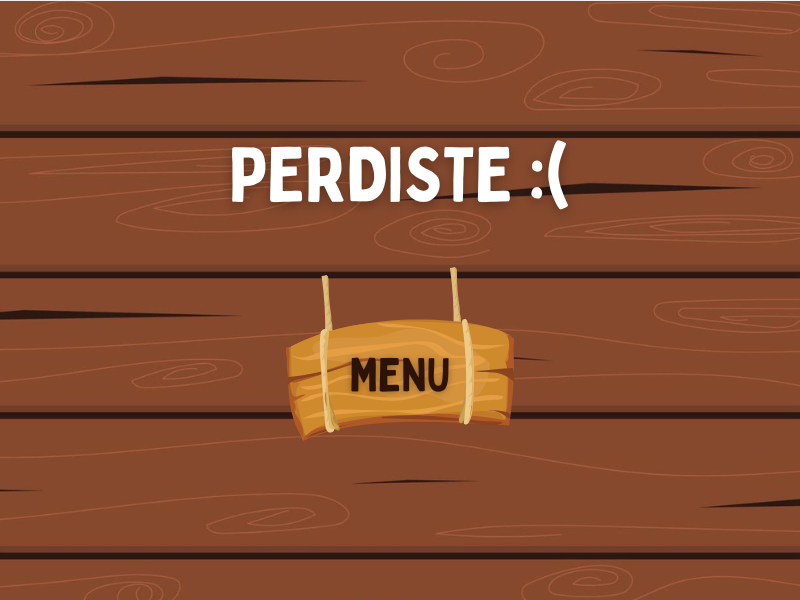
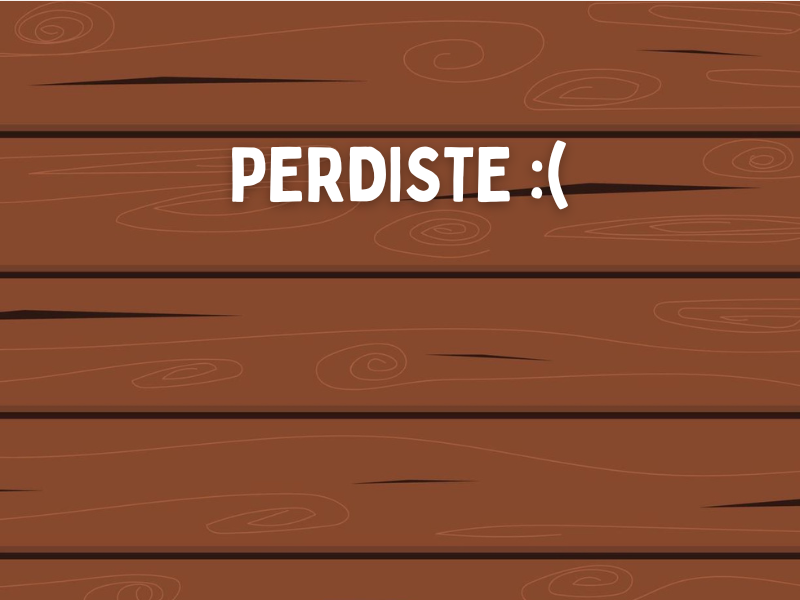
Agrego sistema de nombres para guardar en el historial

Changed region(s): [[0.3438, 0.45, 0.6562, 0.75]]

diff --git a/Ganador.cpp b/Ganador.cpp
@@ -1,36 +1,65 @@
 #include "Ganador.h"
 #include "Menu.h"
+#include <SFML/Window/Keyboard.hpp>
+#include <cstring>
+#include "Juego.h"
 
 
-Ganador::Ganador(Window *w, bool player1ganador) : m_window(w), m_player1ganador(player1ganador) {
+Ganador::Ganador(Window *w, bool player1ganador, int player1puntos, int player2puntos) : m_window(w), m_player1ganador(player1ganador), m_player1puntos(player1puntos), m_player2puntos(player2puntos) {
+	font.loadFromFile("./utils/rara.ttf");
+	
+	
+	
+	m_input.setStyle(sf::Text::Bold);
+	m_input.setFont(font);
+	m_input.setPosition(280, 400);
+	m_input.setCharacterSize(60);
+	m_input.setMaxChars(8);
+	
+	texto_info.setStyle(sf::Text::Bold);
+	texto_info.setFont(font);
+	texto_info.setPosition(200, 510);
+	texto_info.setCharacterSize(30);
+	texto_info.setString("<Presiona Enter para continuar>");
+	
+	texto_info2.setStyle(sf::Text::Bold);
+	texto_info2.setFont(font);
+	texto_info2.setPosition(275, 380);
+	texto_info2.setCharacterSize(30);
+	texto_info2.setString("Ingrese su nombre: ");
+	
 	t_ganador1.loadFromFile("./images/ganador1.png");
 	s_ganador1.setTexture(t_ganador1);
 	
 	t_ganador2.loadFromFile("./images/ganador2.png");
 	s_ganador2.setTexture(t_ganador2);
 	
-	MenuBoton.setSize(Vector2f(147, 75));
-	MenuBoton.setPosition(326, 335);
-	
-	t_menuboton_encima.loadFromFile("./images/menuganador_porencima.png");
-	s_menuboton_encima.setTexture(t_menuboton_encima);
 	
 }
 
 void Ganador::actualizar(Juego &j){
-	mousePos = sf::Mouse::getPosition(*m_window);
-	if(MenuBoton.getGlobalBounds().contains(static_cast<sf::Vector2f>(mousePos))){
-		menuboton_porEncima = true;
-	}else{
-		menuboton_porEncima = false;
+	m_input.update();
+	
+	if(sf::Keyboard::isKeyPressed(sf::Keyboard::Return)){
+		Partida partida;
+		nombre = m_input.getValue();
+		std::strncpy(nombredef, nombre.c_str(), sizeof(nombredef));
+		partida.player1win = m_player1ganador;
+		partida.player1puntos = m_player1puntos;
+		partida.player2puntos = m_player2puntos;
+		std::strncpy(nombredef, nombre.c_str(), 8); 
+		nombredef[8] = '\0'; 
+		std::strncpy(partida.nombre, nombredef, 8);
+		partida.nombre[8] = '\0'; 
+		j.agregarPartida(partida);
+		j.actualizarEscena(new Menu(m_window));
 	}
 	
-	if(sf::Mouse::isButtonPressed(sf::Mouse::Left)){
-		mousePos = sf::Mouse::getPosition(*m_window);
-		if(MenuBoton.getGlobalBounds().contains(static_cast<sf::Vector2f>(mousePos))){
-			j.actualizarEscena(new Menu(m_window));
-		}
-	}
+	
+}
+
+void Ganador::ProcessEvent(Juego &j, Event &event){
+	m_input.processEvent(event);
 }
 
 void Ganador::dibujar(RenderWindow &w){
@@ -40,7 +69,8 @@ void Ganador::dibujar(RenderWindow &w){
 		w.draw(s_ganador2);
 	}
 	
-	if(menuboton_porEncima){
-		w.draw(s_menuboton_encima);
-	}
+	w.draw(texto_info);
+	w.draw(texto_info2);
+	w.draw(m_input);
+
 }

diff --git a/Match.cpp b/Match.cpp
@@ -525,29 +525,25 @@ void Match::actualizar(Juego &j){
 	
 	if(player1_puntos >= puntos_para_ganar or player2_puntos >= puntos_para_ganar){
 		
-		Partida partida;
-		
 		if(player1_puntos >= puntos_para_ganar){
 			sf::sleep(sf::seconds(3));
-			j.actualizarEscena(new Ganador(m_window, true));
-			partida.player1win = true;
+			j.actualizarEscena(new Ganador(m_window, true, puntos_para_ganar, player2_puntos));
 		}
 		if(player2_puntos >= puntos_para_ganar){
 			sf::sleep(sf::seconds(3));
-			j.actualizarEscena(new Ganador(m_window, false));
-			partida.player1win = false;
+			j.actualizarEscena(new Ganador(m_window, false, player1_puntos, puntos_para_ganar));
 		}
 		
 		/*GuardarPartida();*/
-		if(partida.player1win){			
-			partida.player1puntos = puntos_para_ganar;
-			partida.player2puntos = player2_puntos;
-		}else{
-			partida.player1puntos = player1_puntos;
-			partida.player2puntos = puntos_para_ganar;
-		}
-		
-		j.agregarPartida(partida);
+//		if(partida.player1win){			
+//			partida.player1puntos = puntos_para_ganar;
+//			partida.player2puntos = player2_puntos;
+//		}else{
+//			partida.player1puntos = player1_puntos;
+//			partida.player2puntos = puntos_para_ganar;
+//		}
+//		
+//		j.agregarPartida(partida);
 	}
 	
 	cont ++;
@@ -579,25 +575,23 @@ void Match::actualizar(Juego &j){
 			
 			if(player1_puntos >= puntos_para_ganar){
 				sf::sleep(sf::seconds(1));
-				j.actualizarEscena(new Ganador(m_window, true));
-				partida.player1win = true;
+				j.actualizarEscena(new Ganador(m_window, true, puntos_para_ganar, player2_puntos));
 			}
 			if(player2_puntos >= puntos_para_ganar){
 				sf::sleep(sf::seconds(1));
-				j.actualizarEscena(new Ganador(m_window, false));
-				partida.player1win = false;
+				j.actualizarEscena(new Ganador(m_window, false, player1_puntos, puntos_para_ganar));
 			}
 			
 			/*GuardarPartida();*/
-			if(partida.player1win){			
-				partida.player1puntos = puntos_para_ganar;
-				partida.player2puntos = player2_puntos;
-			}else{
-				partida.player1puntos = player1_puntos;
-				partida.player2puntos = puntos_para_ganar;
-			}
-			
-			j.agregarPartida(partida);
+//			if(partida.player1win){			
+//				partida.player1puntos = puntos_para_ganar;
+//				partida.player2puntos = player2_puntos;
+//			}else{
+//				partida.player1puntos = player1_puntos;
+//				partida.player2puntos = puntos_para_ganar;
+//			}
+//			
+//			j.agregarPartida(partida);
 		}
 		
 		string puntos_player1 = to_string(player1_puntos);

diff --git a/InputText.hpp b/InputText.hpp
@@ -1,0 +1,50 @@
+#include <SFML/Graphics.hpp>
+#include <string>
+
+// Version: 2024-01-03
+
+class InputText : public sf::Text {
+	
+public:
+	InputText() = default;
+	InputText(const sf::Font &font, int size=30, sf::Color color=sf::Color::Black) {
+		setFont(font);
+		setCharacterSize(size);
+		setFillColor(color);
+	}
+	
+	bool processEvent(const sf::Event &event) {
+		if (!m_editable) return false;
+		if (event.type == sf::Event::TextEntered) {
+			if (event.text.unicode=='\b') {
+				if (m_value.size()) m_value.erase(m_value.size()-1,1);
+			} else if (event.text.unicode>=32 && event.text.unicode<128) {
+				if (m_max_len==0 || m_value.size()<m_max_len ) 
+					if (!m_single_word || event.text.unicode!=' ')
+						m_value += static_cast<char>(event.text.unicode);
+			}
+			return true;
+		}
+		return false;
+	}
+	void setMaxChars(unsigned int max_len) { m_max_len = max_len; }
+	void update() {
+		if (m_editable && int(m_clock.getElapsedTime().asSeconds()*3)%2)
+			setString(m_value+"|");
+		else 
+			setString(m_value);
+	}
+	void setEditable(bool m_value) { m_editable=m_value; }
+	void setSingleWord(bool m_value) { m_single_word=m_value; }
+	std::string getValue() { return m_value; }
+	void reset() { m_value.clear(); }
+
+private:
+	sf::Clock m_clock;
+	std::string m_value;
+	unsigned int m_max_len = 0;
+	bool m_editable = true;
+	bool m_single_word = false;
+};
+
+

diff --git a/Ganador.h b/Ganador.h
@@ -4,19 +4,33 @@
 #include "Juego.h"
 #include <SFML/Graphics/Sprite.hpp>
 #include <SFML/Graphics/Texture.hpp>
+#include "InputText.hpp"
 using namespace std;
 using namespace sf;
 
 
 class Ganador : public Escena {
 public:
-	Ganador(Window *w, bool player1ganador);
+	Ganador(Window *w, bool player1ganador, int player1puntos, int player2puntos);
+	void ProcessEvent(Juego &j, Event &event) override;
 	void actualizar(Juego &j) override;
 	void dibujar(RenderWindow &w) override;
 private:
+	//Input del nombre del usuario
+	
+	InputText m_input;
+	Text texto_info;
+	Text texto_info2;
+	
+	Font font;
+	
 	Window *m_window;
 	bool m_player1ganador;
-	bool menuboton_porEncima = false;
+	int m_player1puntos;
+	int m_player2puntos;
+	string nombre;
+	char nombredef[9];
+	
 	
 	sf::Vector2i mousePos;
 	
@@ -26,10 +40,6 @@ private:
 	Sprite s_ganador1;
 	Sprite s_ganador2;
 	
-	Texture t_menuboton_encima;
-	Sprite s_menuboton_encima;
-	
-	sf::RectangleShape MenuBoton;
 };
 
 #endif

diff --git a/Historial.cpp b/Historial.cpp
@@ -37,7 +37,7 @@ Historial::Historial(Window *w) : m_window(w){
 	for(size_t i=0;i<texts.size();i++) { 
 		texts[i].setStyle(sf::Text::Bold);
 		texts[i].setFont(font);
-		texts[i].setPosition(120, 120);
+		texts[i].setPosition(100, 120);
 		texts[i].setStyle(sf::Text::Bold);
 		texts[i].setOutlineColor(sf::Color(0,0,0,255));
 		texts[i].setOutlineThickness(1.5);
@@ -62,7 +62,7 @@ void Historial::actualizar(Juego &j){
 				texts[i].setFillColor(sf::Color::Red);
 			}
 			texts[i].move(0, aux*80);
-			texts[i].setString("#"+to_string(aux+1)+ "  Tus puntos: "+ puntos + " --------- " + "Puntos del rival: " + puntos2);
+			texts[i].setString("#"+to_string(aux+1)+ "  Puntos de " + v[i].nombre + ": " + puntos + " --------- " + "Puntos del rival: " + puntos2);
 			
 		}
 	}

diff --git a/Juego.cpp b/Juego.cpp
@@ -16,8 +16,11 @@ void Juego::jugar(){
 	while(w.isOpen()) {
 		Event e;
 		while(w.pollEvent(e)) {
-			if(e.type == Event::Closed)
+			if(e.type == Event::Closed){
 				w.close();	
+			}else{
+				actual->ProcessEvent(*this, e);
+			}
 		}
 		actual->actualizar(*this);
 		actual->dibujar(w);

diff --git a/Escena.h b/Escena.h
@@ -11,6 +11,7 @@ class Juego;
 class Escena {
 public:
 	Escena();
+	virtual void ProcessEvent(Juego &j, Event &event) {}
 	virtual void actualizar(Juego &j) = 0;
 	virtual void dibujar(RenderWindow &w) = 0;
 private:

diff --git a/Juego.h b/Juego.h
@@ -11,6 +11,7 @@ struct Partida{
 	bool player1win;
 	int player1puntos;
 	int player2puntos;
+	char nombre[9];
 };
 
 
